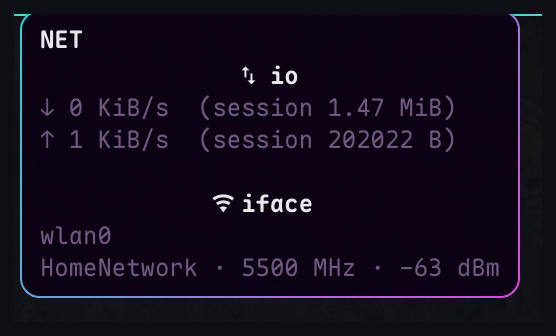
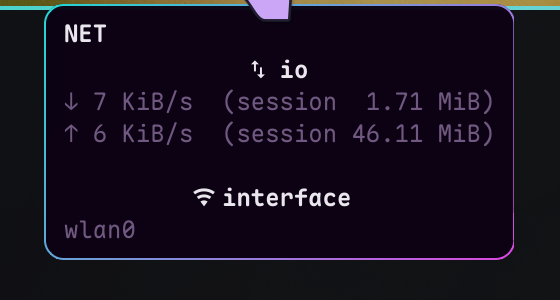
Rename the NET section to interface and make Wi-Fi state active-link aware
- The section heading is now "interface" (was "iface").
- activeWifi compares the default-route interface with the NetworkManager
  Wi-Fi device: the Wi-Fi icon, SSID/frequency/signal line, iw sampling and
  /proc/net/wireless reads only happen when the active link is wireless. On
  Ethernet nothing Wi-Fi related is read or shown.
- Document iw/ip/curl as optional (extended NET only), add the missing awk
  requirement, and list UPower/NetworkManager, with a note that missing
  optional tools silently omit the field.
- NET screenshot updated; version 1.21.4.

diff --git a/lib/SystemMetrics.qml b/lib/SystemMetrics.qml
@@ -214,6 +214,15 @@ Singleton {
     }
     readonly property string wifiSsid: wifiNetwork && wifiNetwork.name ? String(wifiNetwork.name) : ""
 
+    // The Wi-Fi helpers must follow the interface actually carrying the
+    // default route: a laptop can keep a Wi-Fi association while Ethernet is
+    // the active link, and then no Wi-Fi value should be read or shown.
+    readonly property bool activeWifi: {
+        const wifi = wifiNetwork;
+
+        return wifi !== null && wifi.device !== null && wifi.device !== undefined && wifi.device.name === networkInterface && networkInterface !== "";
+    }
+
     readonly property string wifiFreqScriptPath: decodeURIComponent(Qt.resolvedUrl("../wifi-freq.sh").toString().replace("file://", ""))
     property real wifiFreqMhz: 0
 
@@ -1349,7 +1358,7 @@ Singleton {
                 procNetRoute.reload();
                 procNetIpv6Route.reload();
 
-                if (metrics.wifiNetwork !== null) {
+                if (metrics.activeWifi) {
                     procWireless.reload();
                 }
             }
@@ -1527,7 +1536,7 @@ Singleton {
         // Roaming is the only thing that changes the frequency, so a slow
         // refresh is enough; no process runs while the link is wired.
         interval: 30000
-        running: metrics.wifiNetwork !== null
+        running: metrics.activeWifi
         repeat: true
         triggeredOnStart: true
 

diff --git a/BarWidget.qml b/BarWidget.qml
@@ -1389,11 +1389,11 @@ BarWidget {
             const upSession = formatKibAsSize(metrics.networkTxSessionKb);
             const rateWidth = Math.max(downRate.length, upRate.length);
             const sessionWidth = Math.max(downSession.length, upSession.length);
-            const ifaceIcon = metrics.wifiNetwork ? root.iconWifi : root.iconEthernet;
+            const ifaceIcon = metrics.activeWifi ? root.iconWifi : root.iconEthernet;
             const lines = [root.centeredMark + root.iconSwap + " io", "↓ " + downRate.padEnd(rateWidth) + "  (session " + downSession.padStart(sessionWidth) + ")", "↑ " + upRate.padEnd(rateWidth) + "  (session " + upSession.padStart(sessionWidth) + ")"];
 
             lines.push("");
-            lines.push(root.centeredMark + ifaceIcon + " iface");
+            lines.push(root.centeredMark + ifaceIcon + " interface");
 
             let ifaceLine = metrics.networkInterface;
 
@@ -1407,7 +1407,7 @@ BarWidget {
 
             lines.push(ifaceLine);
 
-            if (root.showExtended && metrics.wifiNetwork) {
+            if (root.showExtended && metrics.activeWifi) {
                 let wifi = metrics.wifiSsid !== "" ? metrics.wifiSsid : "hidden SSID";
 
                 if (metrics.wifiFreqMhz > 0) {

diff --git a/README-fr.md b/README-fr.md
@@ -1,6 +1,6 @@
 # YASSM — Yet Another Simple System Monitor
 
-Version 1.21.2
+Version 1.21.4
 
 [English](README.md) | **Français**
 
@@ -57,12 +57,32 @@ seule boucle rapide, 1 s par défaut et réglable de 1 à 5 s dans Settings.
 
 ## Prérequis
 
+**Requis**
+
 - Omarchy 4.x avec son shell Quickshell.
-- `bash`, `findmnt` (util-linux), `ps` (procps-ng) et `timeout` (coreutils).
-- Une police Nerd Font pour les icônes.
-- Optionnel : `nvidia-smi` pour les GPU NVIDIA.
-- Optionnel : `btop` pour le lanceur au clic gauche.
-- Optionnel : `systemctl` (systemd) pour le module Alerts.
+- `bash` et coreutils (`date`, `head`, `readlink`, `stat`, `timeout`…).
+- `awk` (POSIX).
+- `findmnt` (util-linux) pour le module disque.
+- `ps` (procps-ng) pour la liste des processus RAM et le scan des zombies.
+- `systemctl` (systemd) lorsque le module Alerts est activé.
+- `/proc`, `/sys` et une police Nerd Font pour les icônes.
+
+**Optionnel**
+
+- `iw` — fréquence Wi-Fi dans le tooltip NET, uniquement quand la liaison
+  active est sans fil et que extended est activé. Sans lui, la fréquence est
+  simplement omise.
+- `ip` (iproute2) — adresse LAN dans le tooltip NET étendu.
+- `curl` — adresse publique dans le tooltip NET étendu (une requête HTTPS
+  vers <https://api.ipify.org> au plus toutes les 5 minutes).
+- `nvidia-smi` — usage GPU NVIDIA ; le compteur sysfs est préféré.
+- `btop` — lanceur au clic gauche ; sans lui, le clic gauche ouvre Settings.
+- UPower et NetworkManager — détails batterie et SSID via D-Bus ; sans eux
+  ces champs sont masqués.
+
+Un outil optionnel manquant ne provoque jamais d'erreur : le champ
+correspondant est omis. Seuls `btop` et la source GPU sont détectés au
+démarrage.
 
 Le widget est conçu pour une barre horizontale (haut ou bas). Il est masqué
 sur une barre verticale, où un emplacement de `barSize` de large ne peut pas
@@ -213,11 +233,12 @@ Le survol d'un module affiche une infobulle contextuelle :
 - **Réseau** : une section `io` avec le débit descendant (↓), montant (↑) et
   le total de la session (deltas depuis le démarrage du shell, remis à zéro au
   redémarrage et conservés lors d'un changement d'interface), puis une section
-  `iface` avec le nom de l'interface. Les deux débits sont colorés
+  `interface` avec le nom de l'interface. Les deux débits sont colorés
   indépendamment. Le compteur absolu du pilote n'est pas utilisé, car il peut
   être aberrant. Sans route par défaut (uniquement `lo`), une icône réseau
   barrée rouge et `--` remplacent les deux débits. Extended data complète la
-  ligne `iface` avec l'adresse LAN (`ip -4`) et l'adresse publique
+  ligne `interface` avec l'adresse LAN (`ip -4`) et l'adresse publique
+  (`curl`)
   (`wlan0 · 192.168.50.148 · 90.29.68.78`), puis ajoute le SSID (via
   NetworkManager), la fréquence associée (`iw`, par ex. `5500 MHz`) et le
   niveau du signal (via `/proc/net/wireless`) quand la liaison est sans fil :

diff --git a/README.md b/README.md
@@ -1,6 +1,6 @@
 # YASSM — Yet Another Simple System Monitor
 
-Version 1.21.2
+Version 1.21.4
 
 **English** | [Français](README-fr.md)
 
@@ -57,12 +57,31 @@ default and configurable from 1 to 5 s in Settings.
 
 ## Requirements
 
+**Required**
+
 - Omarchy 4.x with its Quickshell shell.
-- `bash`, `findmnt` (util-linux), `ps` (procps-ng) and `timeout` (coreutils).
-- A Nerd Font for the icons.
-- Optional: `nvidia-smi` for NVIDIA GPUs.
-- Optional: `btop` for the left-click launcher.
-- Optional: `systemctl` (systemd) for the Alerts module.
+- `bash` and coreutils (`date`, `head`, `readlink`, `stat`, `timeout`…).
+- `awk` (POSIX).
+- `findmnt` (util-linux) for the disk module.
+- `ps` (procps-ng) for the RAM process list and the zombie scan.
+- `systemctl` (systemd) when the Alerts module is enabled.
+- `/proc`, `/sys` and a Nerd Font for the icons.
+
+**Optional**
+
+- `iw` — Wi-Fi frequency in the NET tooltip, only when the active link is
+  wireless and extended data is on. Without it, the frequency is simply
+  omitted.
+- `ip` (iproute2) — LAN address in the extended NET tooltip.
+- `curl` — public address in the extended NET tooltip (one HTTPS request to
+  <https://api.ipify.org> at most every 5 minutes).
+- `nvidia-smi` — NVIDIA GPU usage; the sysfs counter is preferred.
+- `btop` — left-click launcher; without it the left click opens Settings.
+- UPower and NetworkManager — battery details and SSID over D-Bus; without
+  them those fields are hidden.
+
+A missing optional tool never raises an error: the corresponding field is
+omitted. Only `btop` and the GPU source are probed at startup.
 
 The widget is designed for a horizontal bar (top or bottom). It is hidden on
 vertical bars, where a `barSize`-wide slot cannot hold the module row.
@@ -210,11 +229,12 @@ Hovering a module shows a contextual tooltip:
   `pressure` section (`some`/`full` for `10s`, `60s`, `300s`);
 - **Network**: an `io` section with download (↓) and upload (↑) rates plus
   the session total (deltas since the shell started, reset on restart and kept
-  across interface changes), then an `iface` section with the interface name.
+  across interface changes), then an `interface` section with the interface name.
   Both rates are colored independently. The driver's absolute counter is not
   used because it can be bogus. Without a default route (loopback only), a red
   crossed-network icon and `--` replace both rates. Extended data completes
-  the `iface` line with the LAN address (`ip -4`) and the public address
+  the `interface` line with the LAN address (`ip -4`) and the public address
+  (`curl`)
   (`wlan0 · 192.168.50.148 · 90.29.68.78`), then adds the SSID (from
   NetworkManager), the associated frequency (`iw`, e.g. `5500 MHz`) and the
   signal level (from `/proc/net/wireless`) when the link is wireless:
